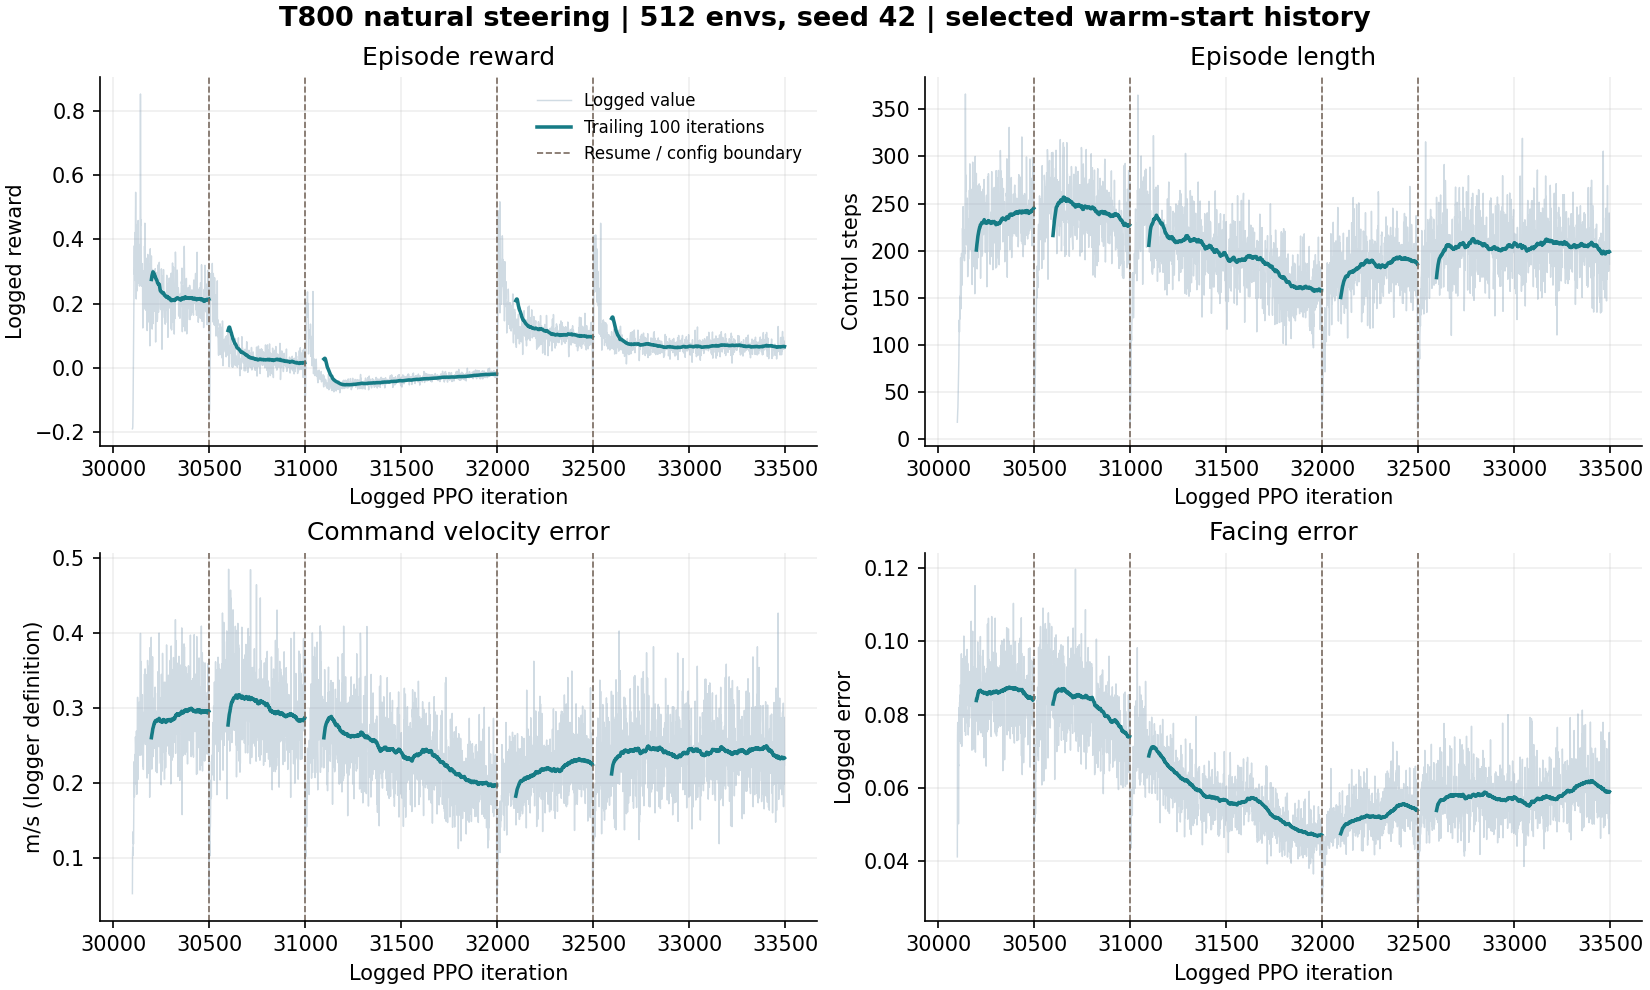
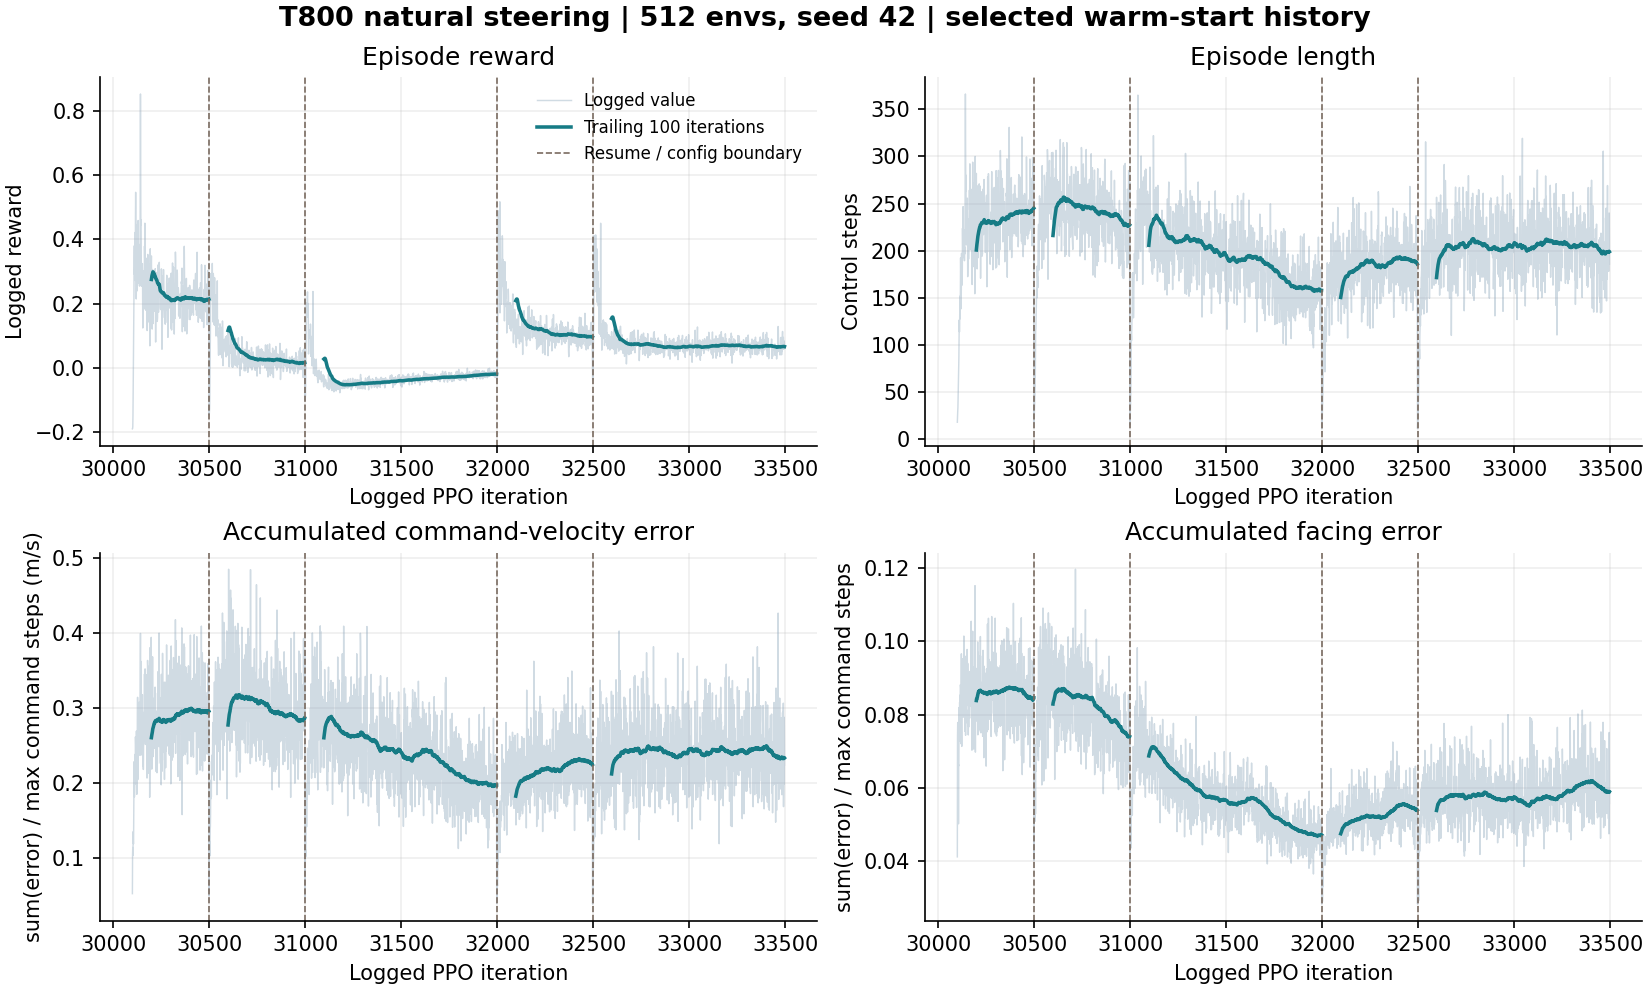
Clarify upstream accumulated steering metric definitions

diff --git a/scripts/build_showcase.py b/scripts/build_showcase.py
@@ -313,8 +313,8 @@ def main() -> None:
     plot_csv("steering", [
         ("mean_reward", "Episode reward", "Logged reward"),
         ("episode_length", "Episode length", "Control steps"),
-        ("velocity_error", "Command velocity error", "m/s (logger definition)"),
-        ("facing_error", "Facing error", "Logged error"),
+        ("velocity_error", "Accumulated command-velocity error", "sum(error) / max command steps (m/s)"),
+        ("facing_error", "Accumulated facing error", "sum(error) / max command steps"),
     ], "T800 natural steering | 512 envs, seed 42 | selected warm-start history")
     plot_csv("badminton", [
         ("mean_reward", "Episode reward", "Logged reward"),

diff --git a/docs/results.md b/docs/results.md
@@ -43,6 +43,8 @@
 
 脚滑基于真实接触与足底 site 水平速度；抬脚高度为 site 地形高度相对该段最低值的 P95；`foot_separation_command_p95_m` 是两脚沿指令方向的间距，不是完整一步的步长。这些定义保留在 [评估脚本](../code/eval_t800_steering.py) 与 [原始指标](../evidence/steering_metrics.json) 中。
 
+训练曲线中的`Metrics/steering/error_vel_xy`与`error_face`按上游定义逐步累计误差，再除以命令最大重采样步数，并非每个episode的逐步均值；episode长度改变也会影响这两个日志值。上表速度与回放`mean_velocity_error`直接来自逐步实际运动，不能和这两条训练日志互换解释。
+
 **后续发现的prior契约错误：** 上述33495历史策略的实际运动记录保留，但其SMP在线EE使用腰/腕，walk12训练数据的EE却是base/肘，不能称整套feature语义已匹配。固定同一物理轨迹与噪声，仅按原包定义重建特征，raw SMP均值由0.052–0.063降至0.025–0.037；参考数据本身按正确映射做FK，256个窗口尾帧最大EE距离约1.1e-6m。对照见[旧映射](../evidence/steering_prior_support_wrong_ee.json)、[原包映射](../evidence/steering_prior_support_walk12_ee.json)。`--prior-ee-contract walk12`显式恢复原定义，默认configured保留历史回放行为。这是评分错误的证据，尚不等于策略质量改善或所有早期失败根因已查清。
 
 ## T800：目标速度响应补充
